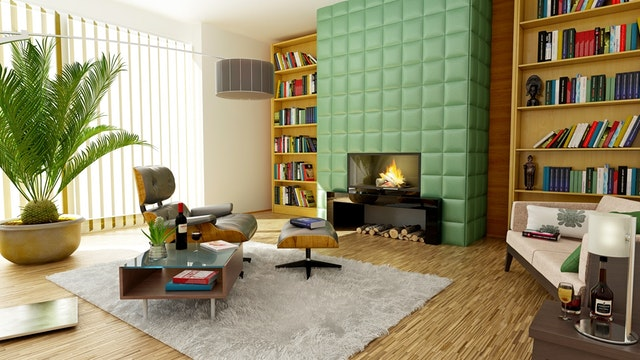
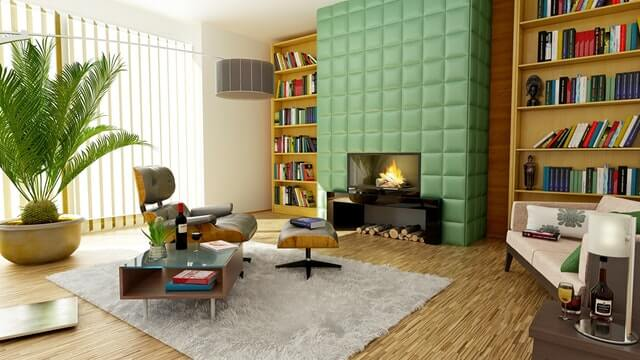
Compressed images

diff --git a/src/styles/_custom.scss b/src/styles/_custom.scss
@@ -22,10 +22,10 @@ h6 {
 }
 
 section {
-	padding: 2rem 0;
+	padding: 3rem 0;
 
 	@include media-breakpoint-up(xl) {
-		padding: 3rem 0;
+		padding: 4rem 0;
 	}
 }
 
